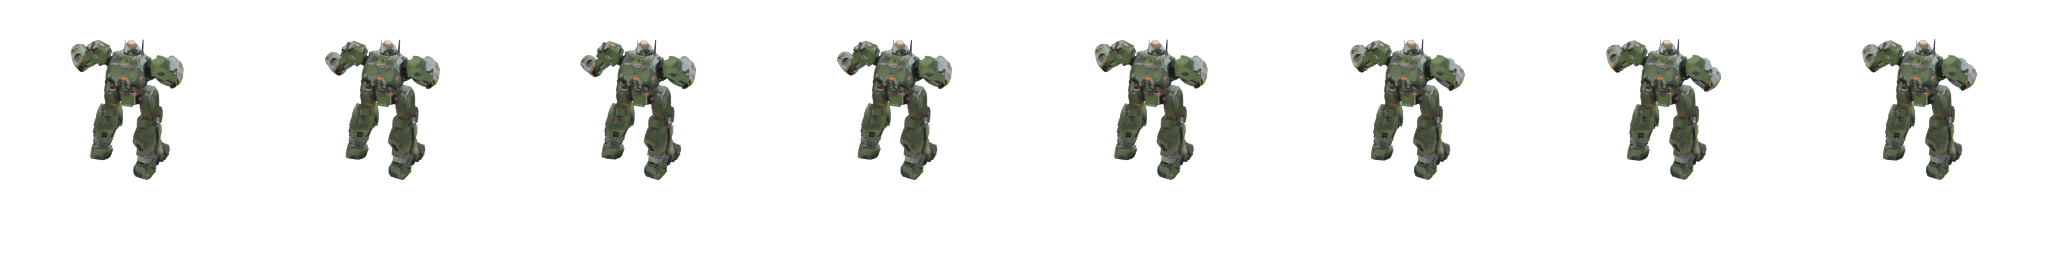
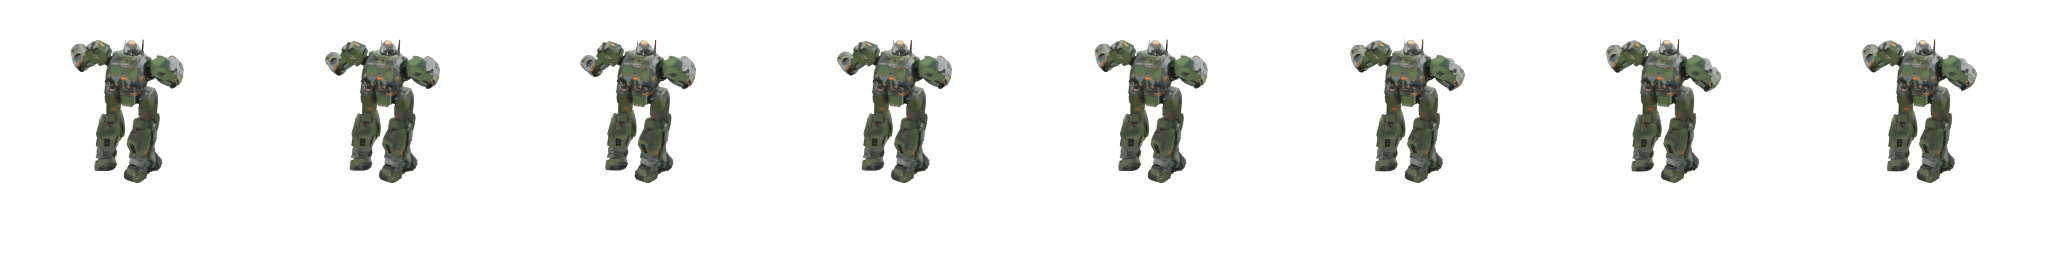
fix: jambe asymetrique de Titan a la marche (rig au repos desequilibre)
Signale par le patron en testant Titan en jeu : « une jambe qui tangue ».
Mesure via bpy : le rig Meshy de titan a un bind pose deja asymetrique
(hanche gauche a 32.4 de la verticale, hanche droite a 22.1 -- 10 d'ecart),
contrairement au rig de vortex, symetrique a 0.1 pres. reset_pose() revient
a ce bind pose, donc idle/attack/hit heritaient directement du desequilibre,
et walk/run/die/melee l'ecrasaient avec `=` au lieu de `+=`, perdant tout
correctif possible.

apply_bunker_guard_base() fixe maintenant explicitement LeftUpLeg/RightUpLeg
a une inclinaison symetrique (~15 de la verticale, mesure et verifie par
rendu test avant le bake complet) ; les 4 fonctions qui animent la hanche
passent en += pour ne plus ecraser ce correctif. 28 planches re-bakees.

diff --git a/tools/build_titan_anims.py b/tools/build_titan_anims.py
@@ -125,6 +125,19 @@ def apply_bunker_guard_base(arm):
         pb["LeftForeArm"].rotation_euler = (math.radians(-30), math.radians(5), 0)
     if "RightForeArm" in pb:
         pb["RightForeArm"].rotation_euler = (math.radians(-30), math.radians(-5), 0)
+    # 🚨 CORRECTIF JAMBE ASYMETRIQUE (patron, 24/09 : « une jambe qui tangue » a la marche).
+    # Le rig Meshy de titan a un bind pose DEJA asymetrique (mesure via bpy, angle par
+    # rapport a la verticale : hanche gauche 32.4°, hanche droite 22.1° — ~10° d'ecart, alors
+    # que le rig de vortex est symetrique a 0.1° pres). reset_pose() revient a ce bind pose,
+    # donc toute animation qui ne fixe pas explicitement UpLeg (idle, attack, hit) heritait
+    # de ce desequilibre ; celles qui le fixent (walk/run/die/melee) l'ECRASAIENT en assignant
+    # `=` plutot que `+=`, donc le correctif doit AUSSI passer par ces fonctions. Valeurs
+    # choisies par mesure (tools/_leg_pitch_probe, non versionne) pour ramener les deux jambes
+    # a ~15° de la verticale, symetriques.
+    if "LeftUpLeg" in pb:
+        pb["LeftUpLeg"].rotation_euler.x = math.radians(18.0)
+    if "RightUpLeg" in pb:
+        pb["RightUpLeg"].rotation_euler.x = math.radians(15.0)
     # Stance large : les jambes ecartees davantage qu'un chassis leger (rig au repos deja
     # ecarte pour la plupart des Meshy humanoides ; on ne force pas UpLeg en Y pour eviter
     # une torsion de hanche non voulue — l'ecart vient du modele + de l'amplitude en marche).
@@ -177,9 +190,9 @@ def pose_walk(arm, f, total_frames=8):
     r_ankle = -r_pitch * 0.6
 
     if "LeftUpLeg" in pb:
-        pb["LeftUpLeg"].rotation_euler.x = l_pitch
+        pb["LeftUpLeg"].rotation_euler.x += l_pitch
     if "RightUpLeg" in pb:
-        pb["RightUpLeg"].rotation_euler.x = r_pitch
+        pb["RightUpLeg"].rotation_euler.x += r_pitch
     if "LeftLeg" in pb:
         pb["LeftLeg"].rotation_euler.x = l_knee
     if "RightLeg" in pb:
@@ -221,9 +234,9 @@ def pose_run(arm, f, total_frames=8):
     r_knee = math.radians(62) * max(0.0, -math.sin(p + math.pi - 0.2))
 
     if "LeftUpLeg" in pb:
-        pb["LeftUpLeg"].rotation_euler.x = l_pitch
+        pb["LeftUpLeg"].rotation_euler.x += l_pitch
     if "RightUpLeg" in pb:
-        pb["RightUpLeg"].rotation_euler.x = r_pitch
+        pb["RightUpLeg"].rotation_euler.x += r_pitch
     if "LeftLeg" in pb:
         pb["LeftLeg"].rotation_euler.x = l_knee
     if "RightLeg" in pb:
@@ -333,9 +346,9 @@ def pose_die(arm, f, total_frames=8):
         pb["Hips"].location.z = hip_drop
         pb["Hips"].rotation_euler.x = math.radians(-6) * p
     if "LeftUpLeg" in pb:
-        pb["LeftUpLeg"].rotation_euler.x = math.radians(16) * p
+        pb["LeftUpLeg"].rotation_euler.x += math.radians(16) * p
     if "RightUpLeg" in pb:
-        pb["RightUpLeg"].rotation_euler.x = math.radians(-8) * p
+        pb["RightUpLeg"].rotation_euler.x += math.radians(-8) * p
     if "LeftLeg" in pb:
         pb["LeftLeg"].rotation_euler.x = knee_buckle
     if "RightLeg" in pb:
@@ -379,7 +392,7 @@ def pose_melee(arm, f, total_frames=8):
     if "Spine02" in pb:
         pb["Spine02"].rotation_euler.x = lean * 0.4
     if "RightUpLeg" in pb:
-        pb["RightUpLeg"].rotation_euler.x = math.radians(16) * (1.0 if t < 0.55 else max(0.0, 1.0 - (t - 0.55) * 3))
+        pb["RightUpLeg"].rotation_euler.x += math.radians(16) * (1.0 if t < 0.55 else max(0.0, 1.0 - (t - 0.55) * 3))
     if "LeftArm" in pb:
         pb["LeftArm"].rotation_euler.x += lean * 0.3
     if "RightArm" in pb:
